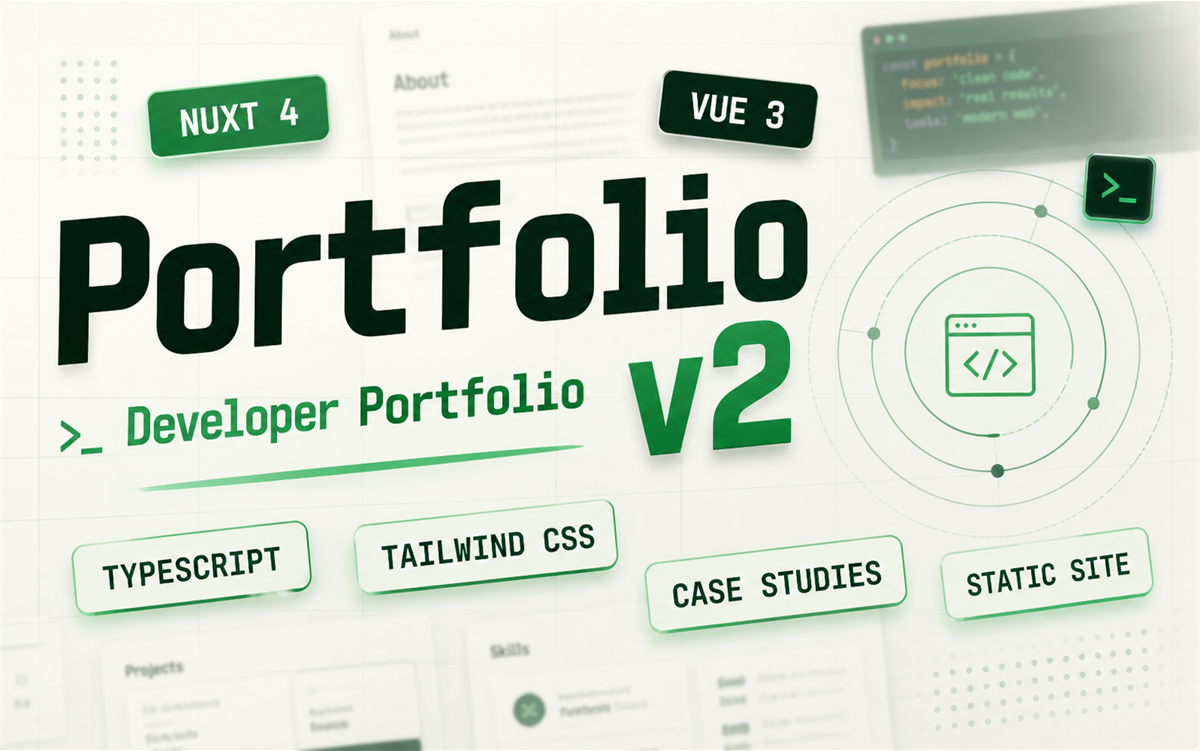
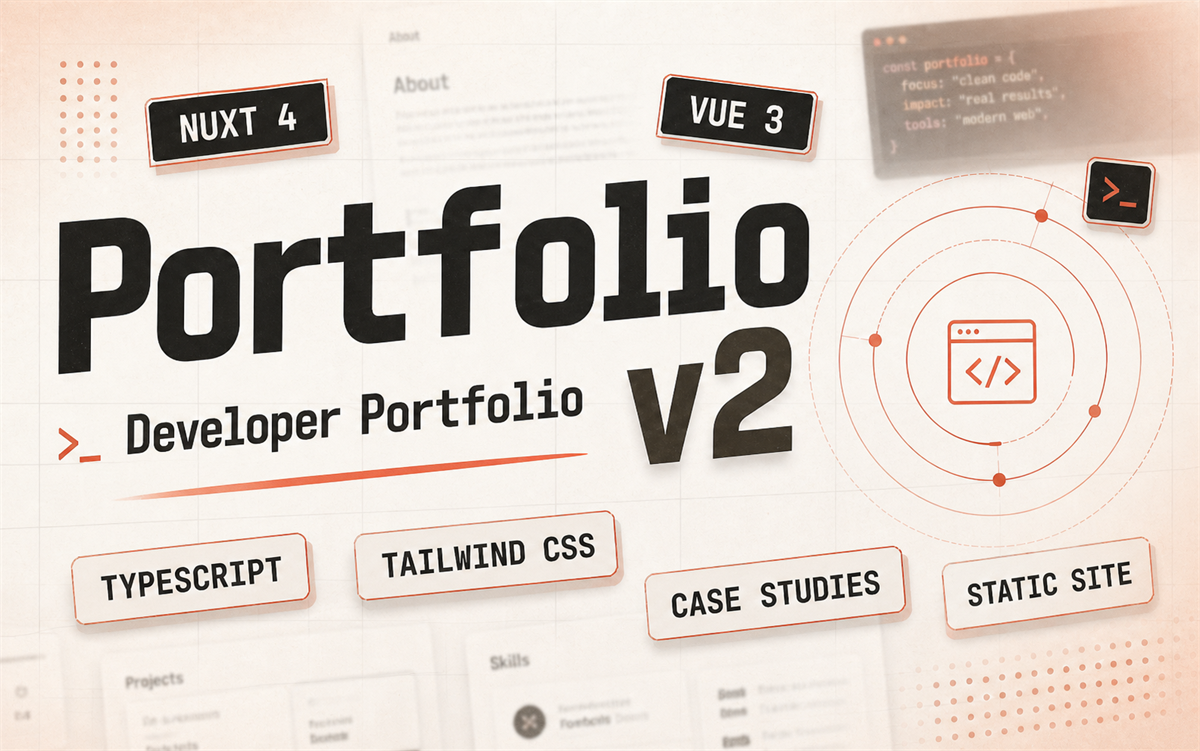
refactor: change meta data theme, re-generate og-image and portfolio cover by new theme

diff --git a/app/app.vue b/app/app.vue
@@ -21,7 +21,7 @@ useSeoMeta({
   author: siteName,
   keywords: 'Duc Trong Luong, Front-end Developer, Web Developer, Vue, Nuxt, React, TypeScript',
   robots: 'index, follow, max-image-preview:large, max-snippet:-1, max-video-preview:-1',
-  themeColor: '#0d1f17',
+  themeColor: '#262624',
   ogTitle: siteTitle,
   ogDescription: description,
   ogType: 'website',
